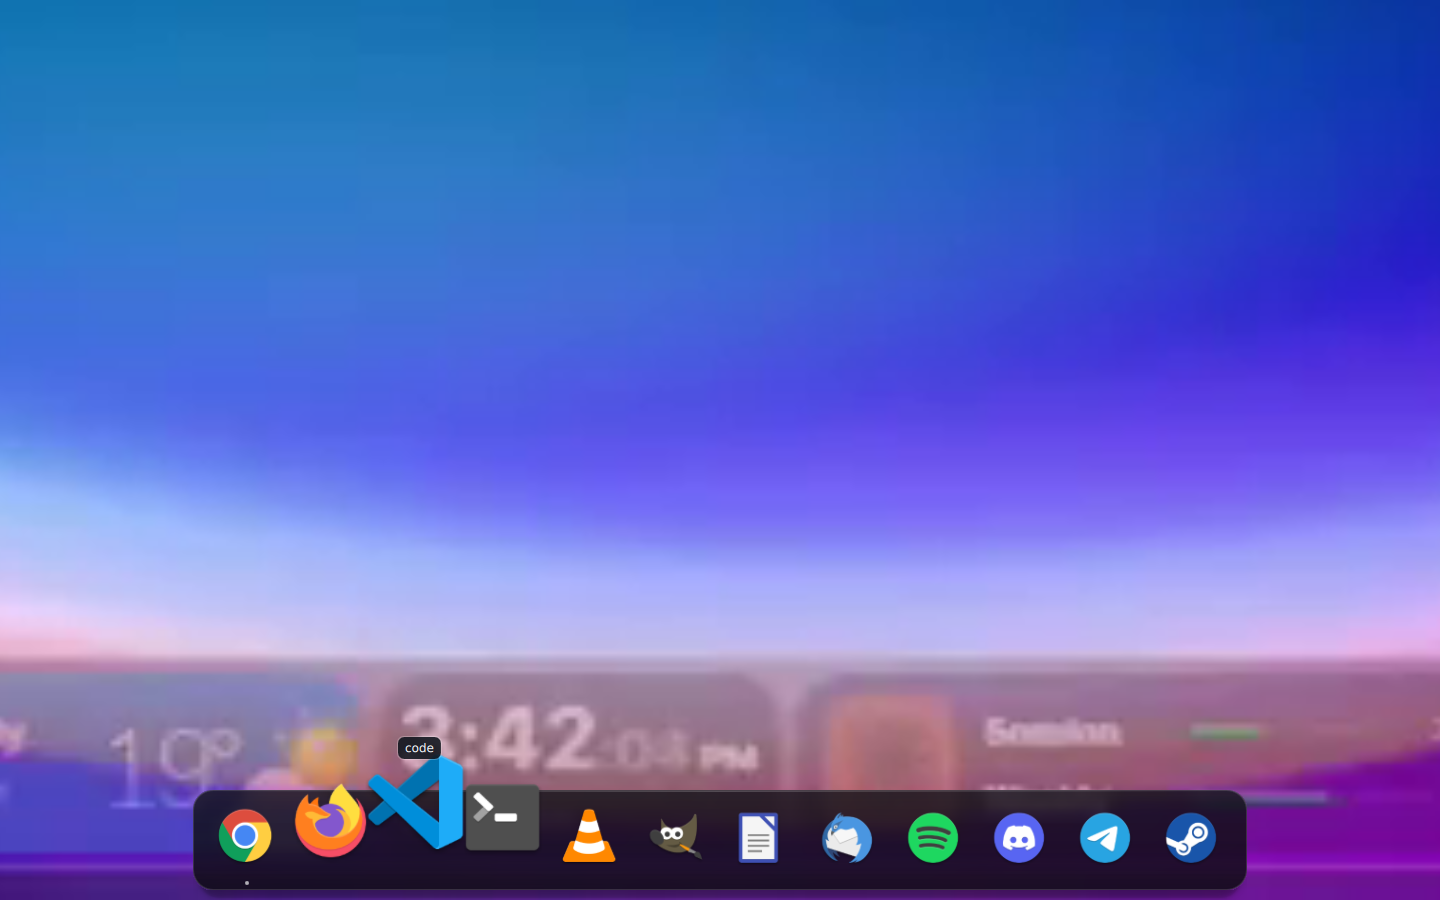
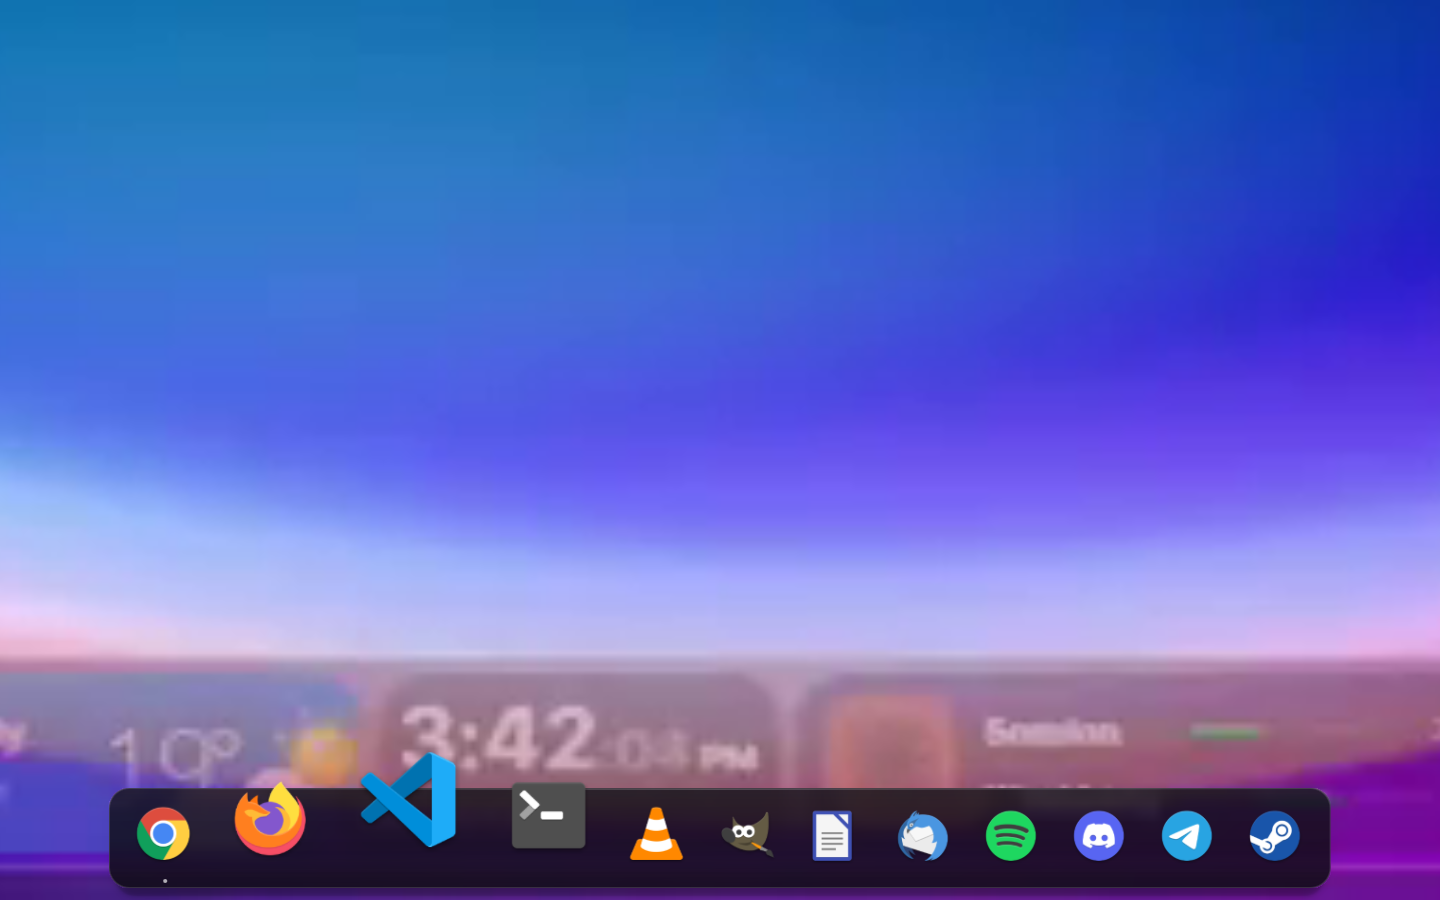
Dock: buyuyen ikon komsularini itsin
- Row yerine birikimli genislikten konumlanan ikonlar; buyuyen ikon yanindakileri yana iter.
- Panel icerik kadar genisleyip daraliyor, aralik 12 px; kenarlarda kirpilma yok.
- Pencereye 120 px yatay pay eklendi; buyume panel ve pencere sinirinda kalmiyor.
- kanit 02-hover basta olmak uzere 01-06 ve olcum yenilendi.

Changed region(s): [[0.0625, 0.8089, 0.9375, 0.9956]]

diff --git a/qml/Dock.qml b/qml/Dock.qml
@@ -12,15 +12,22 @@ Item {
     // Referans olculeri: ikon 56, panel 76, yan 12, ara 8, alt bosluk 10.
     readonly property real ikonBoyut: ayar ? ayar.iconSize : 76
     readonly property real buyutmeCarpan: ayar ? ayar.buyutme : 1.9
-    readonly property real bosluk: 10
+    readonly property real bosluk: 12
     readonly property real yanBosluk: 16
     readonly property real icBosluk: Math.round((panelYukseklik - ikonBoyut) / 2)
     readonly property real panelYukseklik: 100
-    readonly property real altPay: 10
+    readonly property real altPay: 12
     readonly property real hucreYuksekligi: Math.round(ikonBoyut * buyutmeCarpan)
     readonly property real tabanGenislik: ikonSayisi > 0
         ? ikonSayisi * ikonBoyut + (ikonSayisi - 1) * bosluk : 0
-    readonly property real panelGenislik: tabanGenislik + 2 * yanBosluk
+    // Buyuyen ikonlar komsularini iter; panel icerik kadar genisler.
+    readonly property real icerikGenislik: {
+        var toplam = 0
+        for (var i = 0; i < ikonSayisi; i++)
+            toplam += ikonBoyut * hedefOlcek(i)
+        return toplam + Math.max(0, ikonSayisi - 1) * bosluk
+    }
+    readonly property real panelGenislik: icerikGenislik + 2 * yanBosluk
     readonly property real sigma: 0.85
 
     property real fareX: -1
@@ -77,6 +84,8 @@ Item {
         height: kok.panelYukseklik
         x: Math.round((kok.width - width) / 2)
         y: kok.height - kok.altPay - height
+        Behavior on width { NumberAnimation { duration: 140; easing.type: Easing.OutQuad } }
+        Behavior on x { NumberAnimation { duration: 140; easing.type: Easing.OutQuad } }
 
         // Arkasi bulanik masaustu (Python'da 12 kat kucult/buyut).
         Image {
@@ -140,21 +149,32 @@ Item {
     }
 
     // --- Ikonlar -----------------------------------------------------------
-    Row {
+    Item {
         id: satir
-        anchors.horizontalCenter: parent.horizontalCenter
+        width: kok.icerikGenislik
+        x: (kok.width - width) / 2
         y: panelKutu.y + panelKutu.height - kok.icBosluk - kok.hucreYuksekligi
-        spacing: kok.bosluk
         height: kok.hucreYuksekligi
+
+        Behavior on width { NumberAnimation { duration: 140; easing.type: Easing.OutQuad } }
+        Behavior on x { NumberAnimation { duration: 140; easing.type: Easing.OutQuad } }
 
         Repeater {
             model: ikonModel
             delegate: Item {
                 id: hucre
-                width: kok.ikonBoyut
+                // Konumlar birikimli genislikten: buyuyen ikon komsusunu iter.
+                x: {
+                    var konum = 0
+                    for (var j = 0; j < index; j++)
+                        konum += kok.ikonBoyut * kok.hedefOlcek(j) + kok.bosluk
+                    return konum
+                }
+                width: kok.ikonBoyut * hucre.olcekDeger
                 height: kok.hucreYuksekligi
                 z: 1 + Math.round(olcekDeger * 10)
 
+                Behavior on x { NumberAnimation { duration: 140; easing.type: Easing.OutQuad } }
                 property real olcekDeger: kok.hedefOlcek(index)
                 property int parlamaSurum: model.parlama
                 property real parParlama: 0

diff --git a/dock/ana.py b/dock/ana.py
@@ -34,7 +34,7 @@ from .uygulamalar import (
 
 KOK = Path(__file__).resolve().parent.parent
 
-_ALAN_BOSLUK = 10
+_ALAN_BOSLUK = 12
 _YAN_BOSLUK = 16
 _PANEL_YUKSEKLIK = 100
 _PANEL_DIKEY_BOSLUK = 12
@@ -42,6 +42,8 @@ _ALT_PAY = 12
 # Pencere opak: buyuyen ikonlar icin panel ustunde pay, golge icin altta 10 px.
 # Kalan alan masaustu goruntusuyle doldurulur; saydamlik/compositor gerekmez.
 _PENCERE_UST_PAY = 80
+# Yatay pay: buyuyen ikonlar komsularini itince panel genisler, kirpilma olmaz.
+_PENCERE_YAN_PAY = 120
 
 
 class ArkaplanSaglayici(QQuickImageProvider):
@@ -123,9 +125,9 @@ class Dock(QWidget):
         self._hucre_yukseklik = int(ikon * buyutme)
         taban = ikon * len(self.uygulamalar) + _ALAN_BOSLUK * max(0, len(self.uygulamalar) - 1)
         self._taban_panel_genislik = taban + 2 * _YAN_BOSLUK
-        self._gen = self._taban_panel_genislik
+        self._gen = self._taban_panel_genislik + 2 * _PENCERE_YAN_PAY
         self._yuk = self._panel_yukseklik + _ALT_PAY + _PENCERE_UST_PAY
-        self._panel_x = 0
+        self._panel_x = _PENCERE_YAN_PAY
         self._panel_y = self._yuk - _ALT_PAY - self._panel_yukseklik
 
         ekran = QApplication.primaryScreen().geometry()
